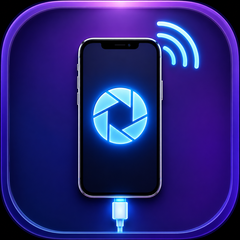
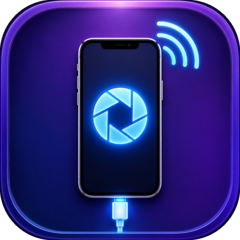
fix: export Product Hunt thumbnail with transparent corners
Mask the app icon to its rounded rect before resizing so Product Hunt
uploads no longer show black square corners around the logo.

diff --git a/marketing/README.md b/marketing/README.md
@@ -1,6 +1,8 @@
 # TetherShot marketing assets
 
 - `app-icon.png` — clean application icon.
+- `app-icon-transparent.png` — app icon with transparent rounded corners (1024×1024).
+- `logo-transparent-512.png` — transparent logo at 512×512.
 - `app-screenshot.png` — native app window (legacy).
 - `product-hunt/01-overview.png` — primary 1270×760 launch gallery image.
 - `product-hunt/02-native-app.png` — dashboard launch gallery image.
